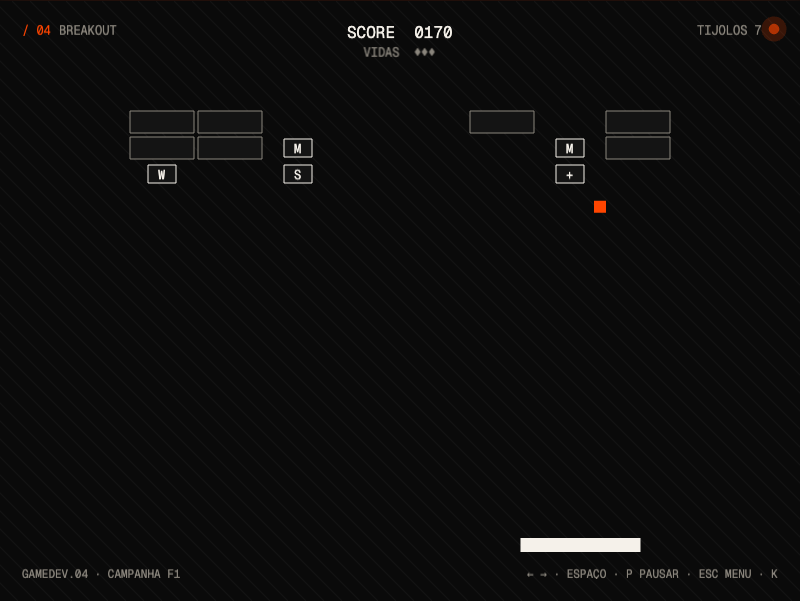
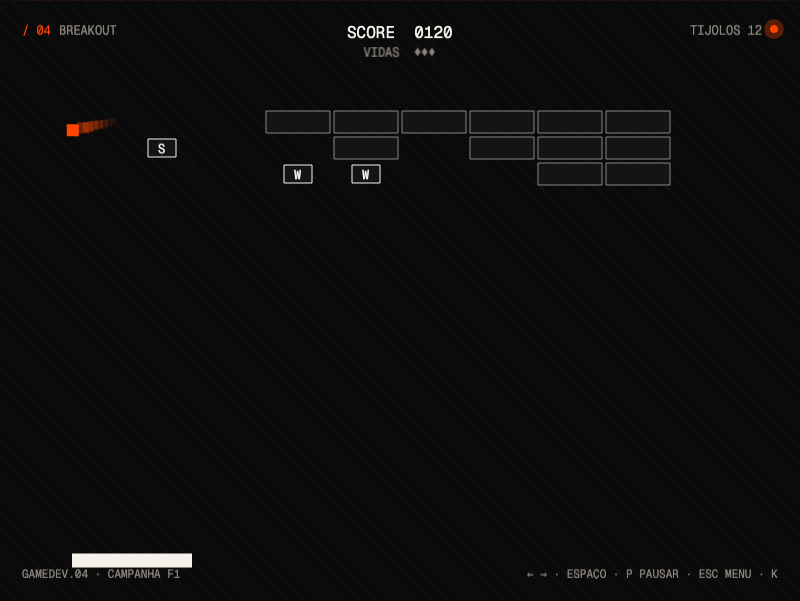
Game feel rewrite: paddle spin, jitter, trail, hit feedback
User feedback: bola monótona, sempre mesma direção, sem feedback nas
colisões, presa em loops verticais. Rewrite das mecânicas de feel.

1. Paddle "english" (mecânica clássica de Breakout):
   - Rastreia paddle.vx em cada update
   - onPaddleHit adiciona 0.42 * paddleVx à bola velocity
   - Player que move paddle ao bater = bola vai naquela direção
   - Skill expression de verdade

2. Angle jitter em onBrickHit:
   - Após normalizar velocity ao target speed, adiciona ±4° aleatório
   - Cada rebote é levemente diferente
   - Fim do "sempre bate no mesmo lugar"

3. Feedback visual no paddle:
   - Squish tween (scaleY 1.6 → 1.0 em 140ms cubic ease-out)
   - Color flash fg → accent → fg (70ms)
   - Particle burst no ponto de impacto (4 particles)
   - Camera shake 0.0015 intensity

4. Brick ghost on destroy:
   - Spawna rectangle branco com alpha 0.9 no lugar do tijolo
   - Fade alpha 1→0 + scale 1→1.25 em 220ms
   - Visualiza o "estouro" do tijolo após destroy()

5. Ball trail:
   - Trail Graphics layer separado
   - Queue de 8 posições passadas por bola (via getData/setData)
   - Cada posição: alpha decai linear, size encolhe progressivamente
   - Bola tem identidade visual em movimento

6. Anti-stuck VERTICAL adicionado (antes só horizontal):
   - Se |vx| < 8% do speed (loop entre paddle e brick), força componente
     horizontal aleatória
   - Combina com anti-stuck horizontal existente
   - Garante que ball nunca fica em loop perpétuo
[…]

diff --git a/src/scenes/BreakoutScene.ts b/src/scenes/BreakoutScene.ts
@@ -132,6 +132,9 @@ export class BreakoutScene extends Phaser.Scene {
   private slowEndAt = 0;
   private wideEndAt = 0;
   private lastBrickBreakAt = 0;
+  private paddleVx = 0;
+  private lastPaddleX = 0;
+  private trailGraphics!: Phaser.GameObjects.Graphics;
 
   private scoreText!: Phaser.GameObjects.Text;
   private livesText!: Phaser.GameObjects.Text;
@@ -200,6 +203,9 @@ export class BreakoutScene extends Phaser.Scene {
     this.powerups = this.physics.add.group({
       allowGravity: false,
     });
+
+    // Trail da bola (queue de posições passadas, desenhado em update)
+    this.trailGraphics = this.add.graphics();
 
     this.physics.world.setBounds(0, 0, WIDTH, HEIGHT);
     // NÃO uso setCollideWorldBounds na bola — bounce manual em bounceBallsOffWalls
@@ -277,7 +283,37 @@ export class BreakoutScene extends Phaser.Scene {
       this.bounceBallsOffWalls();
       this.unstickBalls();
       this.checkLostBalls();
+      this.updateAndDrawBallTrails();
+    } else {
+      // limpa trails fora de playing pra não aparecer rastro estático
+      this.trailGraphics.clear();
     }
+  }
+
+  private updateAndDrawBallTrails() {
+    this.trailGraphics.clear();
+    this.balls.children.iterate((b) => {
+      const ball = b as Phaser.GameObjects.Rectangle;
+      if (ball.getData("attached")) return true;
+
+      let trail = ball.getData("trail") as Array<{ x: number; y: number }> | undefined;
+      if (!trail) {
+        trail = [];
+        ball.setData("trail", trail);
+      }
+      trail.unshift({ x: ball.x, y: ball.y });
+      if (trail.length > 8) trail.pop();
+
+      for (let i = 1; i < trail.length; i++) {
+        const t = trail[i];
+        const alpha = (1 - i / 8) * 0.45;
+        const size = BALL_SIZE - i * 0.8;
+        if (size <= 0) continue;
+        this.trailGraphics.fillStyle(COLOR_HEX.accent, alpha);
+        this.trailGraphics.fillRect(t.x - size / 2, t.y - size / 2, size, size);
+      }
+      return true;
+    });
   }
 
   // Bounce manual da bola nas paredes top/left/right. Bottom é livre (ball cai).
@@ -360,15 +396,25 @@ export class BreakoutScene extends Phaser.Scene {
         return true;
       }
 
-      // Anti ping-pong horizontal: se |vy| < 6% do speed (ângulo < ~3.5° da
-      // horizontal), inclina pra reintroduzir movimento vertical mantendo o
-      // sinal de vy (não muda direção). Só vai disparar em casos extremos.
-      if (Math.abs(body.velocity.y) < speed * 0.06) {
+      // Anti-stuck HORIZONTAL: |vy| < 8% (bola quase horizontal pura).
+      if (Math.abs(body.velocity.y) < speed * 0.08) {
         const sign = body.velocity.y >= 0 ? 1 : -1;
-        const newVy = sign * speed * 0.18;
+        const newVy = sign * speed * 0.22;
         const newSpeed = Math.sqrt(body.velocity.x * body.velocity.x + newVy * newVy);
         const k = this.currentBallSpeed / newSpeed;
         body.setVelocity(body.velocity.x * k, newVy * k);
+      }
+
+      // Anti-stuck VERTICAL: |vx| < 8% (bola pingando reto entre paddle e brick).
+      // Adiciona componente lateral pra quebrar o loop.
+      if (Math.abs(body.velocity.x) < speed * 0.08) {
+        const sign = body.velocity.x !== 0
+          ? (body.velocity.x > 0 ? 1 : -1)
+          : (Math.random() < 0.5 ? -1 : 1);
+        const newVx = sign * speed * 0.22;
+        const newSpeed = Math.sqrt(newVx * newVx + body.velocity.y * body.velocity.y);
+        const k = this.currentBallSpeed / newSpeed;
+        body.setVelocity(newVx * k, body.velocity.y * k);
       }
       return true;
     });
@@ -437,9 +483,16 @@ export class BreakoutScene extends Phaser.Scene {
     if (left && !right) this.paddle.x -= PADDLE_SPEED * dt;
     else if (right && !left) this.paddle.x += PADDLE_SPEED * dt;
 
-    // mantém dentro dos bounds (cálculo manual porque setImmovable + manual move)
     const halfW = this.paddle.width / 2;
     this.paddle.x = Phaser.Math.Clamp(this.paddle.x, halfW, WIDTH - halfW);
+
+    // Rastreia velocidade do paddle pra dar "english" na bola quando ela bate.
+    // dt pode ser 0 no primeiro frame; protege.
+    if (dt > 0) {
+      this.paddleVx = (this.paddle.x - this.lastPaddleX) / dt;
+    }
+    this.lastPaddleX = this.paddle.x;
+
     body.updateFromGameObject();
   }
 
@@ -513,16 +566,69 @@ export class BreakoutScene extends Phaser.Scene {
   private onPaddleHit(ballObj: unknown, _paddleObj: unknown) {
     const ball = ballObj as Phaser.GameObjects.Rectangle;
     const body = ball.body as Phaser.Physics.Arcade.Body;
-    // NaN guard — não processa bola corrompida, deixa unstickBalls limpar.
     if (!Number.isFinite(ball.x) || !Number.isFinite(ball.y)) return;
 
+    const target = this.currentBallSpeed;
+
+    // 1. Ângulo base por posição de impacto no paddle (Pong classic).
+    //    offset: -1 (canto esquerdo) a +1 (canto direito)
     const offset = Phaser.Math.Clamp((ball.x - this.paddle.x) / (this.paddle.width / 2), -1, 1);
-    const angle = offset * MAX_BOUNCE_ANGLE - Math.PI / 2;
-    body.setVelocity(
-      Math.cos(angle) * this.currentBallSpeed,
-      Math.sin(angle) * this.currentBallSpeed,
-    );
-    playTone(440, 60, "square", 0.10);
+    const positionAngle = offset * MAX_BOUNCE_ANGLE; // ±60° do vertical
+    let vx = Math.sin(positionAngle) * target;
+    let vy = -Math.cos(positionAngle) * target;
+
+    // 2. "English" do paddle: velocidade horizontal dele soma na bola.
+    //    Mover paddle pra direita = bola vai mais pra direita. Skill expression.
+    const paddleInfluence = this.paddleVx * 0.42;
+    vx += paddleInfluence;
+
+    // 3. Renormaliza pra manter velocidade alvo
+    let speed = Math.sqrt(vx * vx + vy * vy);
+    if (speed > 0) {
+      vx = (vx / speed) * target;
+      vy = (vy / speed) * target;
+    } else {
+      vx = 0;
+      vy = -target;
+    }
+
+    // 4. Garante componente vertical mínima: bola sempre sobe pelo menos 30°
+    //    acima da horizontal após bater no paddle. Sem isso, paddle muito ativo
+    //    + position offset extremo poderia jogar bola quase horizontal.
+    const minVyAbs = target * 0.5; // sin(30°) = 0.5
+    if (vy > -minVyAbs) {
+      vy = -minVyAbs;
+      const remaining = Math.sqrt(Math.max(0, target * target - vy * vy));
+      vx = (vx >= 0 ? 1 : -1) * remaining;
+    }
+
+    body.setVelocity(vx, vy);
+
+    // 5. Feedback visual + tátil
+    this.playPaddleHitFeedback(ball.x);
+  }
+
+  private playPaddleHitFeedback(impactX: number) {
+    // squish vertical (16→24px) → volta. Tween manual com scale.
+    this.tweens.killTweensOf(this.paddle);
+    this.paddle.setScale(1, 1);
+    this.tweens.add({
+      targets: this.paddle,
+      scaleY: { from: 1.6, to: 1 },
+      duration: 140,
+      ease: "Cubic.easeOut",
+    });
+
+    // flash de cor: fg → accent → fg
+    this.paddle.setFillStyle(COLOR_HEX.accent);
+    this.time.delayedCall(70, () => this.paddle.setFillStyle(COLOR_HEX.fg));
+
+    // pequeno burst de partículas no ponto de impacto
+    this.particles.emitParticleAt(impactX, this.paddle.y - this.paddle.height / 2, 4);
+
+    // shake muito sutil
+    this.cameras.main.shake(40, 0.0015);
+    playTone(440, 70, "square", 0.13);
   }
 
   private onBrickHit(ballObj: unknown, brickObj: unknown) {
@@ -552,9 +658,10 @@ export class BreakoutScene extends Phaser.Scene {
       this.brickCount--;
       this.lastBrickBreakAt = this.time.now;
       this.refreshChrome();
-      this.particles.emitParticleAt(brick.x, brick.y, 10);
+      this.particles.emitParticleAt(brick.x, brick.y, 12);
       playTone(660, 80, "triangle", 0.12);
       this.maybeSpawnPowerup(brick.x, brick.y);
+      this.spawnBrickGhost(brick.x, brick.y, brick.width, brick.height);
       brick.destroy();
 
       if (this.brickCount <= 0) this.levelCleared();
@@ -565,9 +672,8 @@ export class BreakoutScene extends Phaser.Scene {
       playTone(330, 60, "square", 0.10);
     }
 
-    // Normaliza só a magnitude da velocidade pra evitar speed=0 (NaN) ou
-    // degradação progressiva. PRESERVA a direção que a física calculou —
-    // anti-stuck horizontal fica em unstickBalls, que roda só quando necessário.
+    // Normaliza a magnitude pra velocidade alvo + adiciona jitter de ±4° pra
+    // que cada rebote seja levemente diferente (fim do "sempre mesmo lugar").
     const body = ball.body as Phaser.Physics.Arcade.Body;
     const vx = body.velocity.x;
     const vy = body.velocity.y;
@@ -575,12 +681,28 @@ export class BreakoutScene extends Phaser.Scene {
     const target = this.currentBallSpeed;
 
     if (speed < 1) {
-      // Encalhou (velocity zerou após múltiplas colisões no mesmo frame).
       body.setVelocity(0, -target);
     } else {
-      const k = target / speed;
-      body.setVelocity(vx * k, vy * k);
+      const baseAngle = Math.atan2(vy, vx);
+      const jitter = Phaser.Math.FloatBetween(-0.07, 0.07); // ±~4°
+      const finalAngle = baseAngle + jitter;
+      body.setVelocity(Math.cos(finalAngle) * target, Math.sin(finalAngle) * target);
     }
+  }
+
+  // Ghost: retângulo branco que fica no lugar do tijolo destruído e fade out
+  // com pequeno scale up. Dá sensação de "impacto" mesmo após destroy().
+  private spawnBrickGhost(x: number, y: number, width: number, height: number) {
+    const ghost = this.add.rectangle(x, y, width, height, COLOR_HEX.fg, 0.9);
+    this.tweens.add({
+      targets: ghost,
+      alpha: 0,
+      scaleX: 1.25,
+      scaleY: 1.25,
+      duration: 220,
+      ease: "Cubic.easeOut",
+      onComplete: () => ghost.destroy(),
+    });
   }
 
   private onPowerupCaught(_paddleObj: unknown, powerupObj: unknown) {